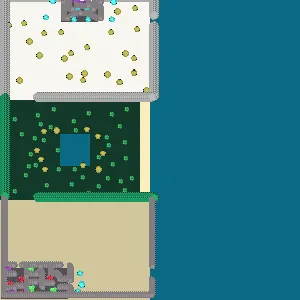
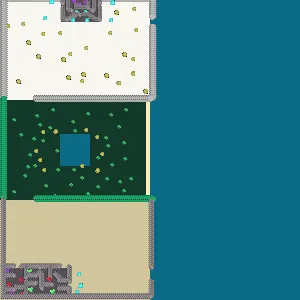
maps and spikes

diff --git a/client/src/pages/Changelog/Changelog.tsx b/client/src/pages/Changelog/Changelog.tsx
@@ -6,6 +6,38 @@ const Changelog = () => {
     <div class="changelog">
       <div class="container">
         <div class="version">
+          {cg_title("- 20/6/2023 - Spiky")}
+          <div class="content">
+            <div class="group">
+              {cg_small_img("/api/images/wooden-spike.webp")}
+              {cg_small_img("/api/images/wooden-spike-door-closed.webp")}
+            </div>
+            <span>FINALLY SPIKES ARE HERE!</span>
+            <div class="group">
+              {cg_small_img("/api/images/stone-spike.webp")}
+              {cg_small_img("/api/images/stone-spike-door-closed.webp")}
+              {cg_small_img("/api/images/golden-spike.webp")}
+              {cg_small_img("/api/images/golden-spike-door-closed.webp")}
+              {cg_small_img("/api/images/diamond-spike.webp")}
+              {cg_small_img("/api/images/diamond-spike-door-closed.webp")}
+            </div>
+            <div class="group">
+              {cg_small_img("/api/images/amethyst-spike.webp")}
+              {cg_small_img("/api/images/amethyst-spike-door-closed.webp")}
+              {cg_small_img("/api/images/ruby-spike.webp")}
+              {cg_small_img("/api/images/ruby-spike-door-closed.webp")}
+            </div>
+            {cg_list("Added", ["Spikes and Spike Doors"])}
+            {cg_list("Changed", [
+              "Healing effect was buffed",
+              "Your body will show when you will get damage",
+              "Building Cooldown: 0.8s --> 1s",
+              "Beach is smaller",
+              "Player collisions with static objects were changed",
+            ])}
+          </div>
+        </div>
+        <div class="version">
           {cg_title("- 12/6/2023 - Water and Oxygen")}
           <div class="content">
             {cg_big_img("/images/water-walk.png")}

diff --git a/src/constant.ts b/src/constant.ts
@@ -34,7 +34,7 @@ export const PLAYER_BODY_POINTS = (centerPoint: Point): UniversalHitbox => ({
 
 export const XP_AFTER_EACH_DAY = 750
 
-export const GOD_MOD_ALL = true
+export const GOD_MOD_ALL = false
 
 export const ITEM_DIR_NAMES = [
   'farm',
@@ -81,7 +81,7 @@ export const MAP_GRID_RENDER_AREA_SIZE = 2000
 
 export const GRID_SET_RANGE = 100
 
-export const ADMIN_PASSWORDS = ['i want admin']
+export const ADMIN_PASSWORDS = ['i am admin']
 export const ADMIN_COMMAND_PREFIX = '/'
 
 const itemFor = (i: number, quantity: number = 999) => [
@@ -91,16 +91,16 @@ const itemFor = (i: number, quantity: number = 999) => [
 
 export const START_ITEMS = () => [
   itemFor(8, 3),
-  itemFor(96),
-  itemFor(97),
-  itemFor(98),
-  itemFor(99),
-  itemFor(100),
-  itemFor(101),
-  itemFor(102),
-  itemFor(103),
-  itemFor(104),
-  itemFor(105),
-  itemFor(106),
-  itemFor(107),
+  // itemFor(96),
+  // itemFor(97),
+  // itemFor(98),
+  // itemFor(99),
+  // itemFor(100),
+  // itemFor(101),
+  // itemFor(102),
+  // itemFor(103),
+  // itemFor(104),
+  // itemFor(105),
+  // itemFor(106),
+  // itemFor(107),
 ]

diff --git a/client/src/pages/Main/Main-Switches/GameOver/GameOver.tsx b/client/src/pages/Main/Main-Switches/GameOver/GameOver.tsx
@@ -9,14 +9,12 @@ const GameOver: Component<{} & PlayerInformationDto> = (props) => {
 
   return (
     <div class="game-over">
-      <h1 class="">Unfortunetely you are a typical nab</h1>
+      <h1 class="">Ooops! Someone died hehe!</h1>
       <div class="stats">
         <span>XP: {props.xp}</span>
         <span>Days: {props.days}</span>
       </div>
-      <Button onClick={() => setPage("main")}>
-        Go Back
-      </Button>
+      <Button onClick={() => setPage("main")}>Go Back</Button>
     </div>
   )
 }

diff --git a/src/servers/test-server.ts b/src/servers/test-server.ts
@@ -49,9 +49,9 @@ export const TEST_GAME_SERVER = (server: Wss) =>
           priority: 2,
           digItemId: 83,
           name: 'beach',
-          size: new Size(10, 100),
+          size: new Size(4, 100),
           bgColor: '#fbefbc',
-          point: new Point(140, 100),
+          point: new Point(146, 100),
           effect: new BiomeEffect({
             temperatureDay: -3,
             temperatureNight: -20,

diff --git a/src/game/player/player-items.ts b/src/game/player/player-items.ts
@@ -45,7 +45,7 @@ interface PlayerItem<T extends ItemsByTypes> {
 
 export class PlayerItems {
   private _isCrafting: null | string = null
-  readonly specialItems = { bag: <number>44 }
+  readonly specialItems = { bag: <number>null } // 44
   _items = new Chest<number, PlayerItem<ItemsByTypes>>(START_ITEMS() as any)
 
   readonly timeout: PlayerItemTimeout = {

diff --git a/src/structures/item-creator/create-settable.ts b/src/structures/item-creator/create-settable.ts
@@ -76,7 +76,7 @@ class SettableCreator {
     this.extend.hp = door
       ? SpikeDoorHpByResourceType[resType]
       : SpikeHpByResourceType[resType]
-    this.size(125, 125).setMode(new Point(0, -125), {
+    this.size(157, 157).setMode(new Point(0, -157), {
       type: 'circle',
       radius: 45,
     })

diff --git a/src/data/config-type.ts b/src/data/config-type.ts
@@ -91,7 +91,7 @@ export const verifyItemOfTeam: SettableMode['verify'] = function (player) {
   return player.uniqueId === this.authorId
 }
 
-export const SpikeTouchDamageRadius = 55
+export const SpikeTouchDamageRadius = 70
 
 export const SpikeHpByResourceType = {
   wood: 250,
